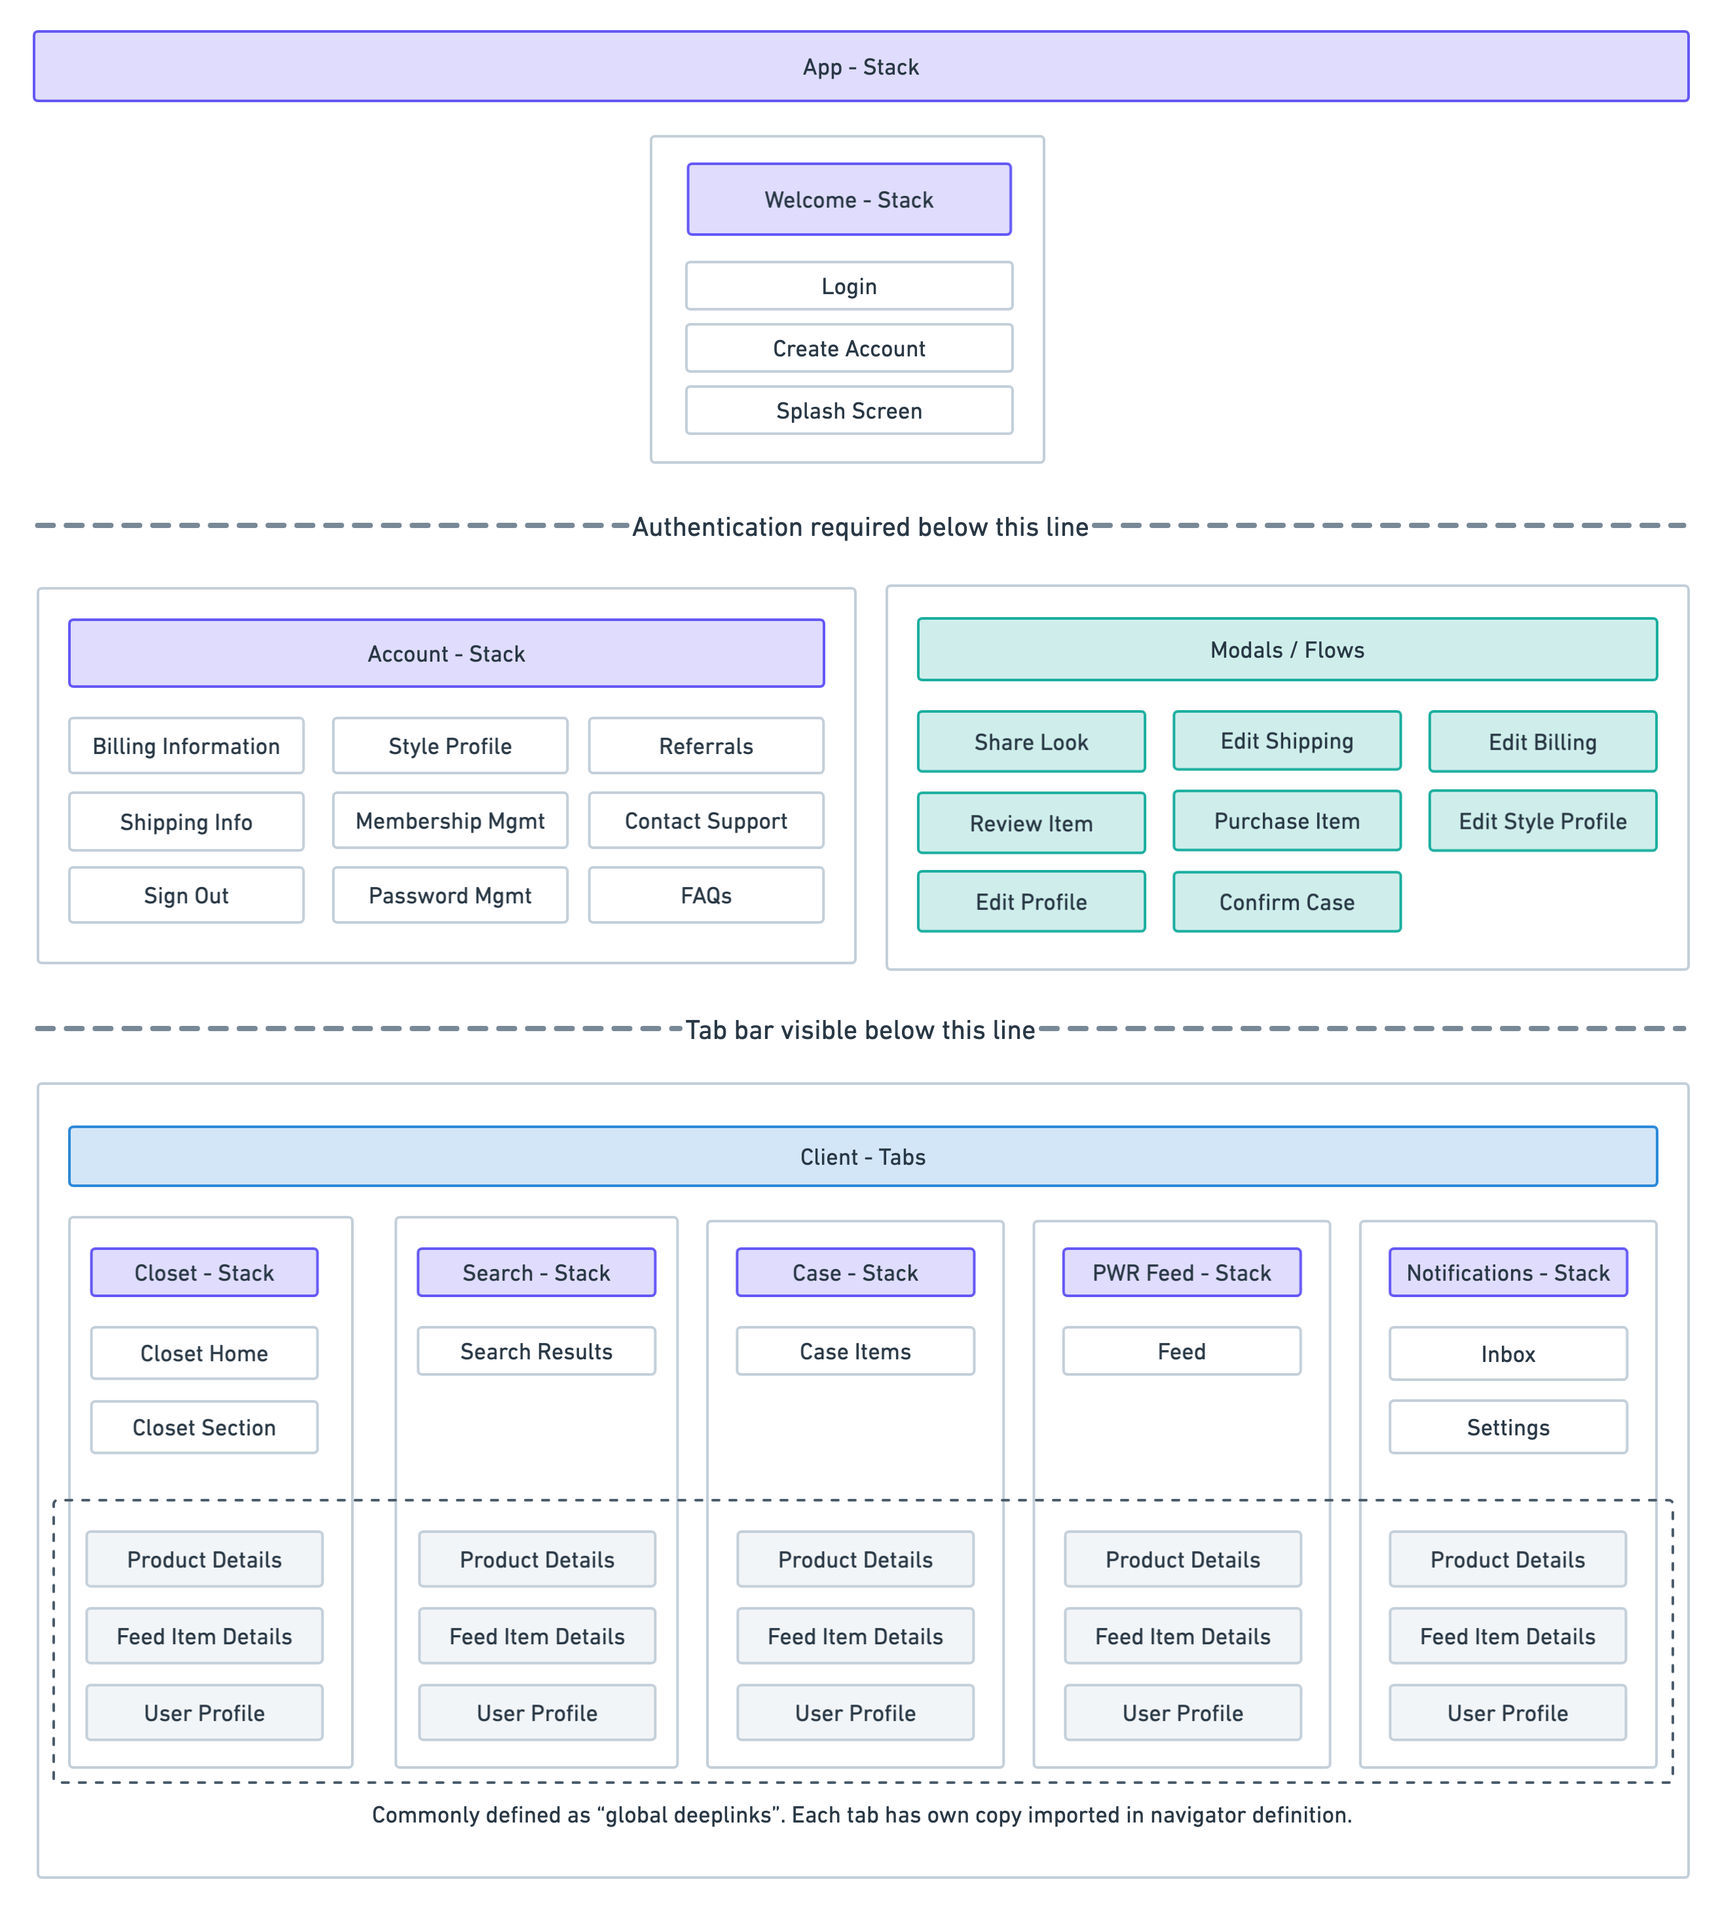
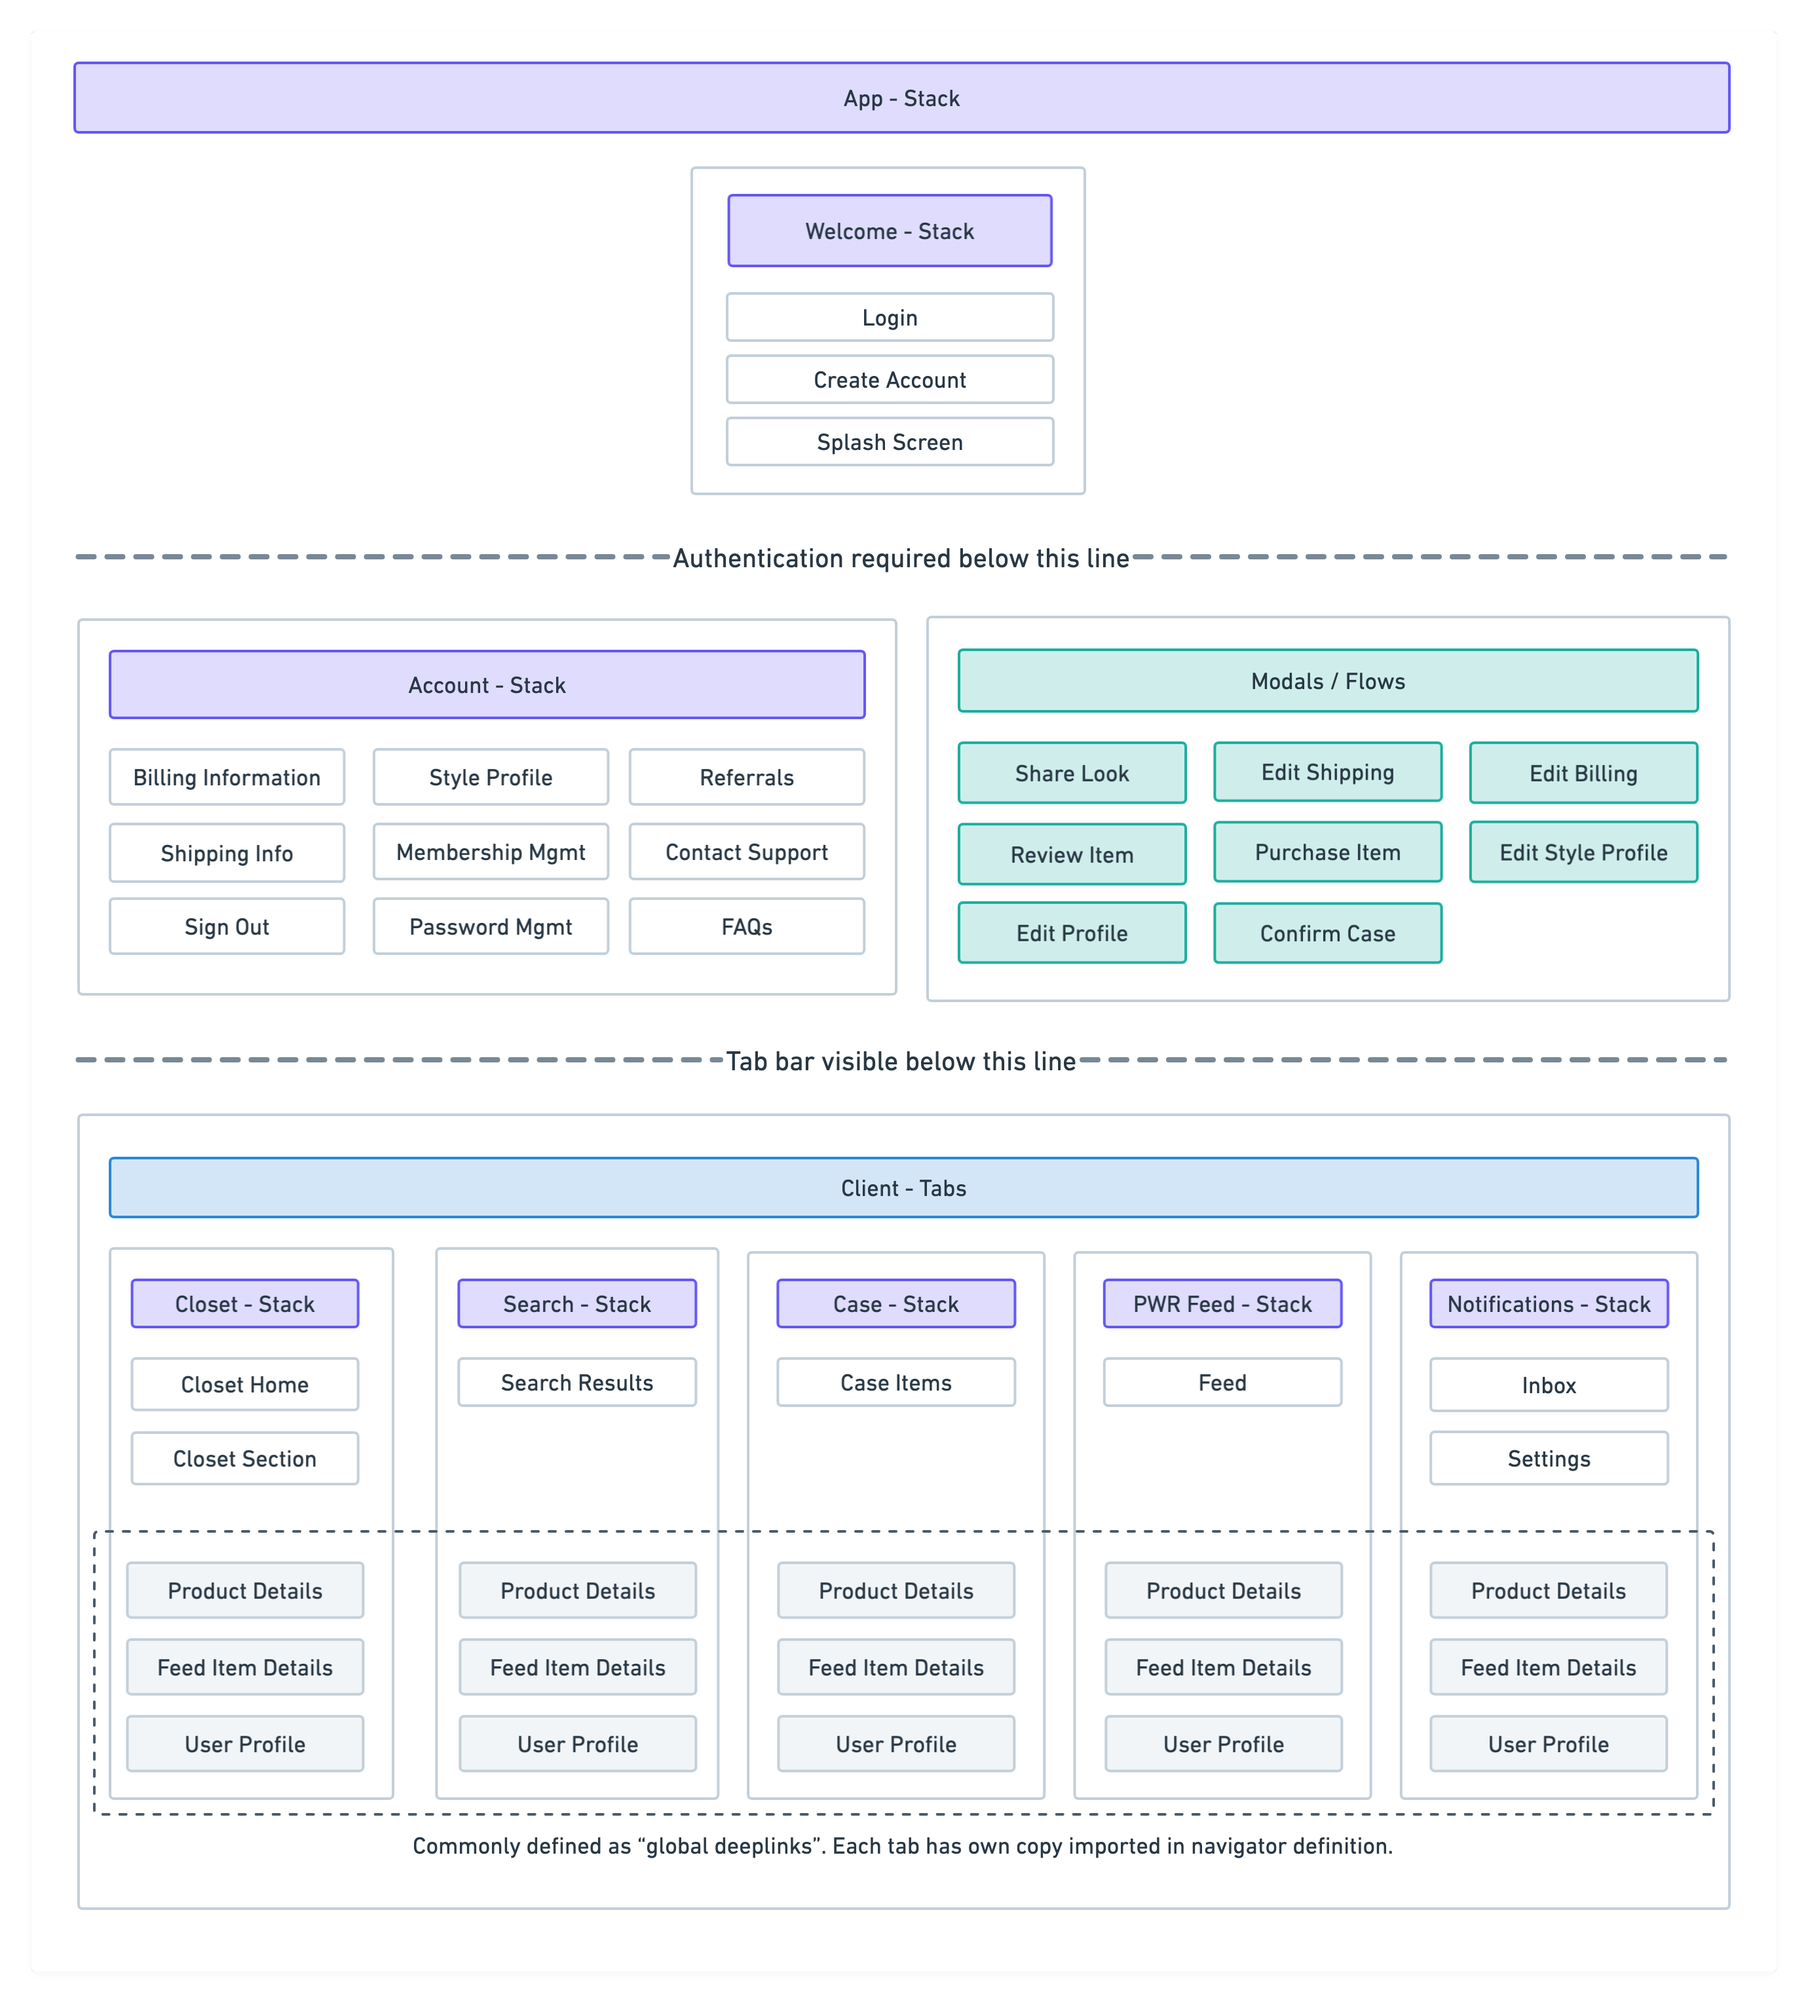
Add basic copy and content for information architecture and navigation development

Changed region(s): [[0.0, 0.0, 0.9992, 0.9681]]

diff --git a/src/pages/armoire_mobile.js b/src/pages/armoire_mobile.js
@@ -134,6 +134,62 @@ const ArmoireMobile = () => {
           }
         }
       }
+      navigationOldDesktop: file(relativePath: { eq: "Mobile-WebNavOldDesktopCondensed.png" }) {
+        childImageSharp {
+          fluid(maxWidth: 900) {
+            ...GatsbyImageSharpFluid
+          }
+        }
+      }
+      navigationOldFlyout: file(relativePath: { eq: "Mobile-WebNavOldFlyout.png" }) {
+        childImageSharp {
+          fluid(maxWidth: 900) {
+            ...GatsbyImageSharpFluid
+          }
+        }
+      }
+      navigationOldMobile: file(relativePath: { eq: "Mobile-WebNavOldMobile.png" }) {
+        childImageSharp {
+          fluid(maxWidth: 900) {
+            ...GatsbyImageSharpFluid
+          }
+        }
+      }
+      navigationArchitecture1: file(relativePath: { eq: "Mobile-NavArch1.png" }) {
+        childImageSharp {
+          fluid(maxWidth: 900) {
+            ...GatsbyImageSharpFluid
+          }
+        }
+      }
+      navigationArchitecture2: file(relativePath: { eq: "Mobile-NavArch2.png" }) {
+        childImageSharp {
+          fluid(maxWidth: 900) {
+            ...GatsbyImageSharpFluid
+          }
+        }
+      }
+      navigationArchitecture3: file(relativePath: { eq: "Mobile-NavArch3.png" }) {
+        childImageSharp {
+          fluid(maxWidth: 900) {
+            ...GatsbyImageSharpFluid
+          }
+        }
+      }
+      navigationArchitectureFinal: file(relativePath: { eq: "Mobile-NavArchFinal.png" }) {
+        childImageSharp {
+          fluid(maxWidth: 900) {
+            ...GatsbyImageSharpFluid
+          }
+        }
+      }
+      navigationDeeplinks: file(relativePath: { eq: "Mobile-NavDeeplinks.png" }) {
+        childImageSharp {
+          fluid(maxWidth: 900) {
+            ...GatsbyImageSharpFluid
+          }
+        }
+      }
       search: file(relativePath: { eq: "Mobile-SearchResults.png" }) {
         childImageSharp {
           fluid(maxWidth: 300) {
@@ -699,7 +755,78 @@ const ArmoireMobile = () => {
         fluid={data.technicalArchitecture.childImageSharp.fluid}/>
       <div id="informationArchitecture" className="bodyTextWrapper">
         <h2>Foundational UX Development</h2>
+        <p>For the first month of the project, I focused on increasing the total surface area of the app by developing its information architecture and global UI components.</p>
         <h3>Information Architecture and Navigation</h3>
+        <p>One of the first UX challenges I had to tackle was determining how to translate the existing web app’s navigation structure into a mobile app hierarchy with only 5 main tabs.</p>
+      </div>
+      <div style={{ display: 'flex', justifyContent: 'center', alignItems: 'center', margin: '24px auto' }}>
+        <div style={{ width: '65%',  }}>
+          <Img
+            style={{ margin: 16 }}
+            alt=""
+            fluid={data.navigationOldDesktop.childImageSharp.fluid}/>
+          <Img
+            style={{ margin: 16 }}
+            alt=""
+            fluid={data.navigationOldMobile.childImageSharp.fluid}/>
+        </div>
+        <Img
+            style={{ width: '22%', margin: 16 }}
+            alt=""
+            fluid={data.navigationOldFlyout.childImageSharp.fluid}/>
+      </div>
+      <div className="bodyTextWrapper">
+        <p> As the screen grabs above demonstrate, the existing website hierarchy was extremely flat and shallow, which didn’t lend itself well to the limited real estate of a mobile app. The diagram below represents the core sections, screens, and actions I identified in the existing web app hierarchy.</p>
+      </div>
+      <Img
+        style={{ margin: '48px auto'}}
+        alt=""
+        fluid={data.navigationArchitecture1.childImageSharp.fluid}/>
+
+      <div className="bodyTextWrapper">
+        <p>
+          I realized that certain “flows”, for example, reviewing or purchasing an item, would actually be best performed <em>without</em> the app tab bar present, to increase user focus on the task and decrease the chance of accidentally leaving before the action is complete. Those flows are highlighted above in teal. 
+        </p>
+        <p>
+          In the second diagram I grouped those flows together into one “Modals” object, with the idea that these screens would live outside or “on top” of the tab navigator and  be opened globally throughout the app. I also moved Referrals and Style Profile within the account section, as they weren't deep enough to warrant their own section. This reduced the number of contenders for the 5 spots in the tab navigator down to 6.
+        </p>
+      </div>
+
+      <Img
+        style={{ margin: '48px auto'}}
+        alt=""
+        fluid={data.navigationArchitecture2.childImageSharp.fluid}/>
+
+      <div className="bodyTextWrapper">
+        <p>
+          From here, I worked in the opposite direction, asking: when is it <em>most</em> important that a user have access to the tab bar? Other than initial login, I determined that this was right after a user adds an item to their case. At this point, a user needs visual confirmation that the item was added, and an understanding of where to view their “case” of selected items.
+        </p>
+        <p>Due to the many connections between product pages, feed items, and user profiles, 5 of the 6 remaining app areas would need to navigate to a product page. These connections are shown below, followed by an updated diagram that highlights their presence in the information architecture.</p>
+      </div>
+
+      <Img
+        style={{ margin: '48px auto'}}
+        alt=""
+        fluid={data.navigationDeeplinks.childImageSharp.fluid}/>
+      <Img
+        style={{ margin: '48px auto'}}
+        alt=""
+        fluid={data.navigationArchitecture3.childImageSharp.fluid}/>
+
+      <div className="bodyTextWrapper">
+        <p>
+          Since Account was the only area that didn't require deeplinking to product pages, and because its actions would be completed least often, I opted to also move it “above” the tab navigator. To make sure it would still be visible to users, I added links to it in the Closet home page, Closet section page, and Case home page headers.
+        </p>
+        <p>
+          The diagram below represents the final information architecture.
+        </p>
+      </div>
+      <Img
+        style={{ maxWidth:800, margin: '48px auto'}}
+        alt=""
+        fluid={data.navigationArchitectureFinal.childImageSharp.fluid}/>
+
+      <div id="componentLibrary" className="bodyTextWrapper">
         <h3>Component Library</h3>
       </div>
       <div id="performanceAnimations" className="bodyTextWrapper">
